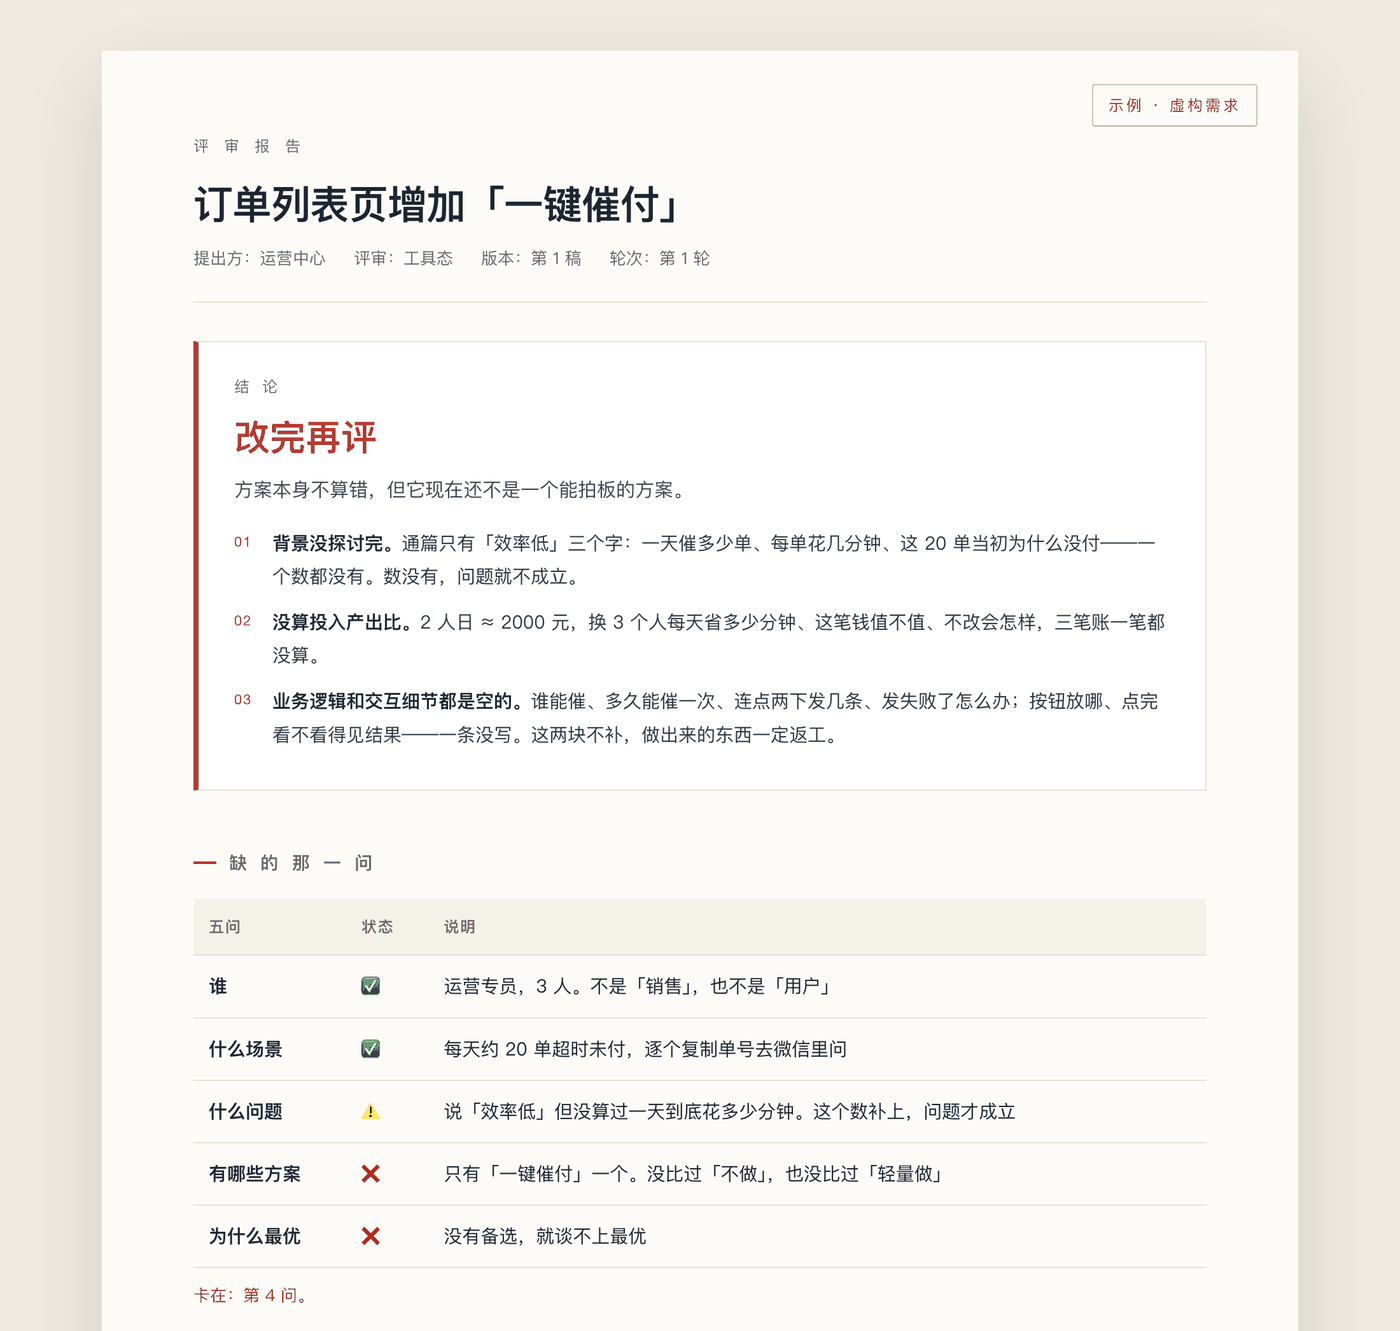
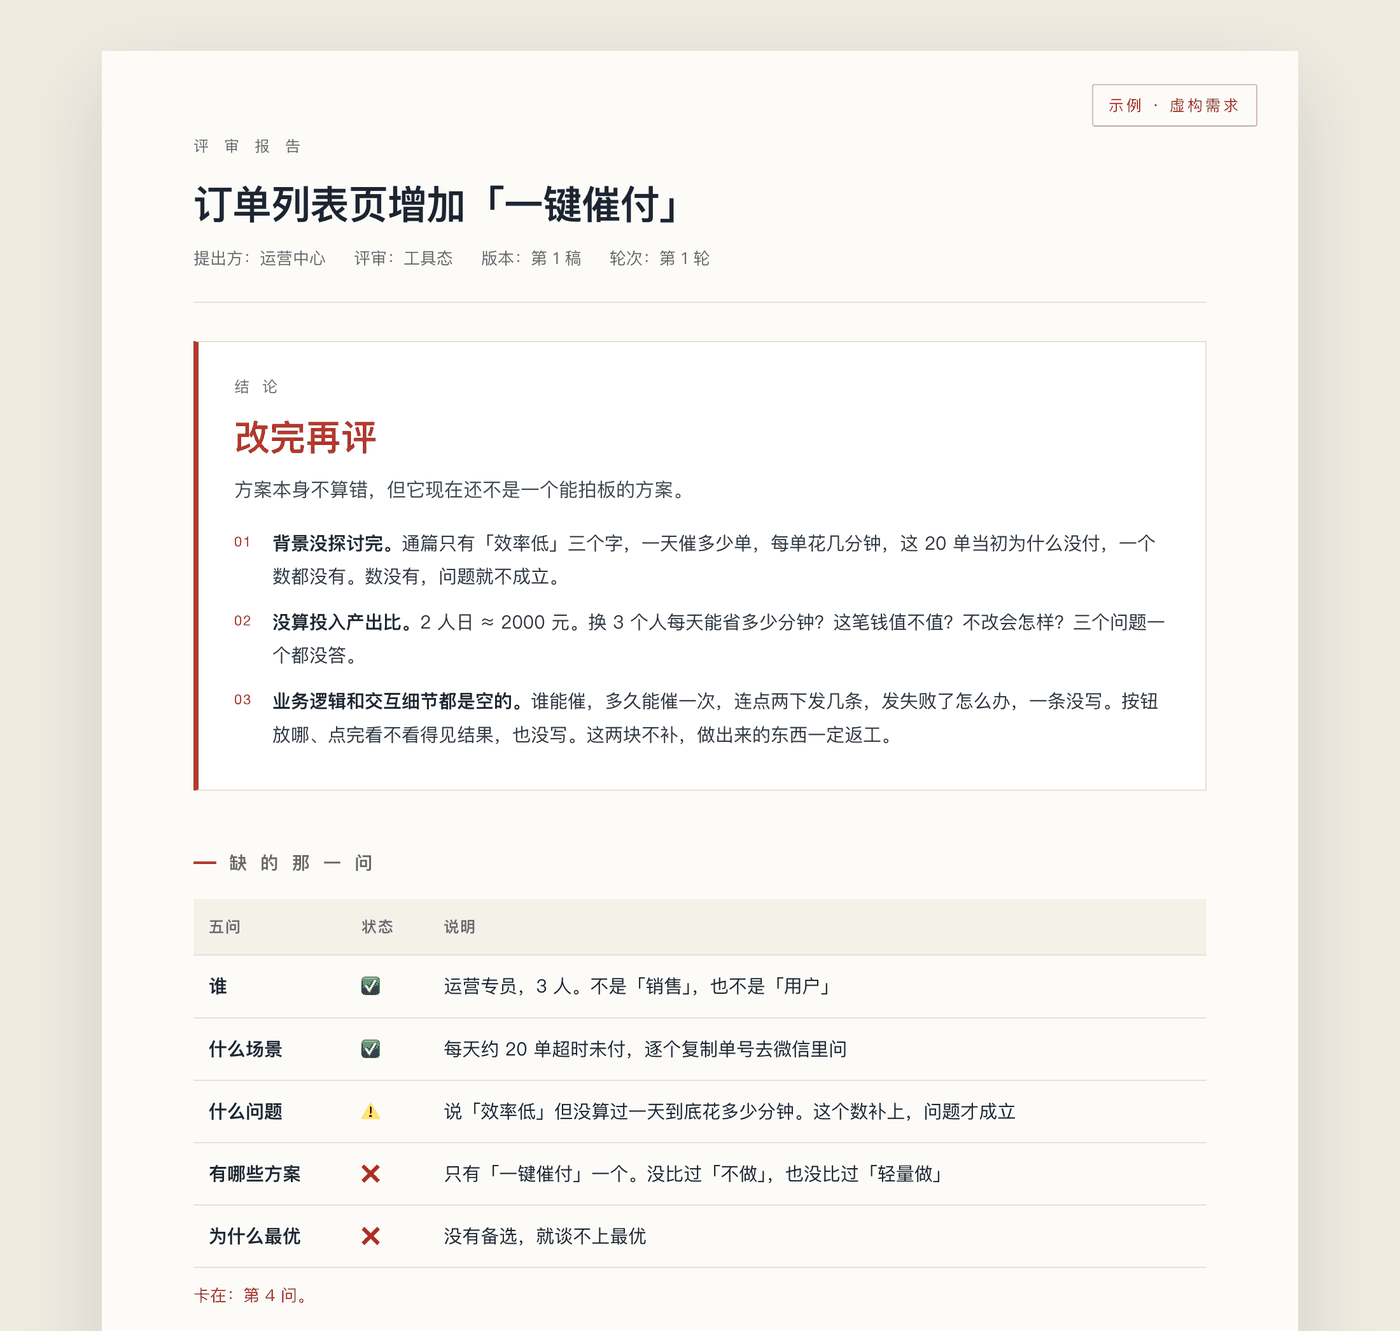
style: README / 落地页 / 示例报告过去 AI 味
用 lieflat-less-ai-tone 检测后按最小改动改写，事实与结构不动：
- 破折号：README 5.67→0、示例报告 4.04→0（每千字）
- 分号：示例报告 2.31→0，三处并列层级拆成两句
- 顿号密排：结论三条与依据行改成逗号分句，表格里的枚举保持原样
- 三连排比打散：'换成客服、换成销售、换成其他区域' → '换成客服或销售，换个区域'
- 首屏那句'它不给你一份更好的 PRD，它把…'改成'它不写 PRD，只指出你漏掉的那一问'
- 落地页版本号 v1.9 → v2.0

未动：空转句引列表（X 级，人类本就多用）、小标题编号、表格枚举、条款措辞。

diff --git a/docs/demo-review.html b/docs/demo-review.html
@@ -96,9 +96,9 @@
     <div class="v">改完再评</div>
     <p class="sub">方案本身不算错，但它现在还不是一个能拍板的方案。</p>
     <ol>
-      <li><b>背景没探讨完。</b>通篇只有「效率低」三个字：一天催多少单、每单花几分钟、这 20 单当初为什么没付——一个数都没有。数没有，问题就不成立。</li>
-      <li><b>没算投入产出比。</b>2 人日 ≈ 2000 元，换 3 个人每天省多少分钟、这笔钱值不值、不改会怎样，三笔账一笔都没算。</li>
-      <li><b>业务逻辑和交互细节都是空的。</b>谁能催、多久能催一次、连点两下发几条、发失败了怎么办；按钮放哪、点完看不看得见结果——一条没写。这两块不补，做出来的东西一定返工。</li>
+      <li><b>背景没探讨完。</b>通篇只有「效率低」三个字，一天催多少单，每单花几分钟，这 20 单当初为什么没付，一个数都没有。数没有，问题就不成立。</li>
+      <li><b>没算投入产出比。</b>2 人日 ≈ 2000 元。换 3 个人每天能省多少分钟？这笔钱值不值？不改会怎样？三个问题一个都没答。</li>
+      <li><b>业务逻辑和交互细节都是空的。</b>谁能催，多久能催一次，连点两下发几条，发失败了怎么办，一条没写。按钮放哪、点完看不看得见结果，也没写。这两块不补，做出来的东西一定返工。</li>
     </ol>
   </div>
 
@@ -119,11 +119,11 @@
   <div class="basis">
     <div class="row">
       <div class="k">受益范围</div>
-      <div class="v"><b>调研只覆盖 3 名运营专员，不具备全量代表性。</b>这个结论对「每天手动催 20 单」的那类人成立，换成客服、换成销售、换成其他区域，就未必成立。<em>下结论前要么扩样本，要么把适用范围写死在方案里。</em></div>
+      <div class="v"><b>调研只覆盖 3 名运营专员，不具备全量代表性。</b>这个结论对「每天手动催 20 单」的那类人成立，换成客服或销售，换个区域，就未必成立。<em>下结论前要么扩样本，要么把适用范围写死在方案里。</em></div>
     </div>
     <div class="row">
       <div class="k">成本</div>
-      <div class="v"><b>真正要回答的是这句话：如果你是老板，愿意花 2000 元，解决这 3 个人的效率问题吗？</b>2 人日 ≈ 2000 元只是个刻度，值不值要看答案。<em>说「愿意」就做；说「不愿意」，先去找替代方案——脚本、模板、招人，都比做功能便宜。</em></div>
+      <div class="v"><b>真正要回答的是这句话：如果你是老板，愿意花 2000 元，解决这 3 个人的效率问题吗？</b>2 人日 ≈ 2000 元只是个刻度，值不值要看答案。<em>说愿意就做。说不愿意，就先找替代方案：写个脚本、做张模板，或者干脆招个人，都比做功能便宜。</em></div>
     </div>
     <div class="row">
       <div class="k">顺手额度</div>
@@ -145,9 +145,9 @@
     <tbody>
       <tr><td><b>谁有权限催</b></td><td class="now">没写</td><td>是「只能催自己名下的单」，还是「全部订单都能催」？跨区域、跨销售的订单呢？权限不定，等于把风险留到上线后</td></tr>
       <tr><td><b>什么算「超时未付」</b></td><td class="now">没定义</td><td>下单后 24 小时算超时，还是以支付通道的超时为准？部分支付、待审核、已申请退款的单，算不算在这个池子里</td></tr>
-      <tr><td><b>频次与冷却</b></td><td class="now">没写</td><td>同一张单一天最多催几次、两次之间至少隔多久？这个上限谁定——运营主管还是产品</td></tr>
+      <tr><td><b>频次与冷却</b></td><td class="now">没写</td><td>同一张单一天最多催几次、两次之间至少隔多久？这个上限谁定，运营主管还是产品</td></tr>
       <tr><td><b>幂等与并发</b></td><td class="now">没写</td><td>两个人同时点、或一个人连点三次，客户收到一条还是三条？这类问题上线第一天就会发生</td></tr>
-      <tr><td><b>走什么渠道、说什么话</b></td><td class="now">没写</td><td>短信 / 企微 / 站内信，还是都发？模板谁维护、能不能改？客户看到的第一句话是什么——这句话决定他付不付</td></tr>
+      <tr><td><b>走什么渠道、说什么话</b></td><td class="now">没写</td><td>短信 / 企微 / 站内信，还是都发？模板谁维护、能不能改？客户看到的第一句话是什么。这句话决定他付不付</td></tr>
       <tr><td><b>失败与回收</b></td><td class="now">没写</td><td>号码无效、被拉黑、通道限流，页面上怎么提示？客户付完之后，这条催付记录怎么关</td></tr>
     </tbody>
   </table>
@@ -156,11 +156,11 @@
   <table>
     <thead><tr><th style="width:24%">位置</th><th style="width:13%">现在的说法</th><th>必须补的</th></tr></thead>
     <tbody>
-      <tr><td><b>入口放哪</b></td><td class="now">只说「列表页」</td><td>行内操作列，还是勾选后批量操作？单条催和批量催是不是同一套逻辑——不是的话，要做两遍</td></tr>
-      <tr><td><b>按钮形态</b></td><td class="now">没写</td><td>催付是打扰性动作，不该用主按钮；已支付、已取消的订单上，这个按钮该灰掉还是不出现</td></tr>
+      <tr><td><b>入口放哪</b></td><td class="now">只说「列表页」</td><td>行内操作列，还是勾选后批量操作？单条催和批量催是不是同一套逻辑，不是的话要做两遍</td></tr>
+      <tr><td><b>按钮形态</b></td><td class="now">没写</td><td>催付是打扰性动作，不该用主按钮。已支付、已取消的订单上，这个按钮该灰掉还是不出现</td></tr>
       <tr><td><b>二次确认</b></td><td class="now">没写</td><td>点一下直接发，还是弹窗确认？批量时说清「将为 12 张单发送催付」，别让人点完才后悔</td></tr>
       <tr><td><b>发送中</b></td><td class="now">没写</td><td>按钮转圈、整行置灰，还是允许再点？发送要几秒，这几秒里用户会做什么，得先想好</td></tr>
-      <tr><td><b>结果反馈</b></td><td class="now">没写</td><td>部分成功怎么报——「12 单成功，2 单失败」，失败的是哪两张、能不能一键重发。只弹个 toast 说「操作成功」，等于没说</td></tr>
+      <tr><td><b>结果反馈</b></td><td class="now">没写</td><td>部分成功怎么报？「12 单成功，2 单失败」，失败的是哪两张，能不能重发。只弹个 toast 说「操作成功」，等于没说</td></tr>
       <tr><td><b>催没催过看得见吗</b></td><td class="now">没写</td><td>列表要不要加「最近催付时间 / 次数」列？不加，运营第二天根本想不起来哪张单催过、催了几次</td></tr>
     </tbody>
   </table>
@@ -180,7 +180,7 @@
     <thead><tr><th>对象</th><th>要说什么</th><th>目的</th><th>渠道</th></tr></thead>
     <tbody>
       <tr><td>提需求的运营负责人</td><td>缺的不是结论，是备选方案和三个数：单量、每单耗时、当前付款率</td><td>让他自己把第 4 问补上</td><td>需求池评论</td></tr>
-      <tr><td>研发负责人</td><td>先不排期；业务逻辑和交互至少还要再过一稿</td><td>避免占用下个迭代的坑位</td><td>周会</td></tr>
+      <tr><td>研发负责人</td><td>先不排期。业务逻辑和交互至少还要再过一稿</td><td>避免占用下个迭代的坑位</td><td>周会</td></tr>
       <tr><td>客服负责人</td><td>本期不改动，口径先别外传</td><td>防止一线提前按「会催付」答复客户</td><td>群公告</td></tr>
       <tr><td>决策人</td><td>若运营坚持要做：2000 元 / 3 人受益，这笔钱值不值由他判断</td><td>让该判断的人判断</td><td>单独沟通</td></tr>
     </tbody>

diff --git a/docs/index.html b/docs/index.html
@@ -59,9 +59,9 @@
     <div class="eyebrow">开 源 A G E N T S K I L L</div>
     <h1>产品Ronchi</h1>
     <div style="font-size:15px;letter-spacing:2px;color:#6E6A60;margin:-6px 0 16px">PM-Ronchi</div>
-    <p class="lede">它不给你一份更好的 PRD，<b>它把「你没想到的那一问」指出来</b>。</p>
+    <p class="lede">它不写 PRD，<b>只指出你漏掉的那一问</b>。</p>
     <div class="meta">
-      <span>v1.9</span><span>作者 Ronchi</span><span>CC BY-NC 4.0</span><span>零依赖 · Python ≥ 3.8</span>
+      <span>v2.0</span><span>作者 Ronchi</span><span>CC BY-NC 4.0</span><span>零依赖 · Python ≥ 3.8</span>
     </div>
     <div class="cta">
       <a class="btn solid" href="./demo-review.html">看一份示例评审报告</a>
@@ -71,7 +71,7 @@
   </header>
 
   <div class="figure"><img src="./structure.svg" alt="五问主链与工具态/教练态双入口结构图"></div>
-  <div class="cap">一张结构，四种用法：评需求 · 找对标 · 评人 · 写文档。缺哪一问就指哪一问，不替对方补。</div>
+  <div class="cap">一张结构，四种用法。评需求，找对标，评人，写文档。缺哪一问就指哪一问，不替对方补。</div>
 
   <section>
     <h2>它 和 「又 一 个 A I 顾 问」 的 区 别</h2>
@@ -103,7 +103,7 @@
     <p style="font-size:14.5px;color:var(--muted);margin-top:14px">
       它会自己放进 <code>~/.workbuddy/skills/pm-ronchi</code>。装完开个新对话，直接说：
       「用产品Ronchi帮我看这个需求」「评审一下这份 PRD」。
-      要评人就明说「这次评人」——它默认评物。
+      要评人就明说「这次评人」，它默认评物。
     </p>
   </section>
 

diff --git a/README.md b/README.md
@@ -1,6 +1,6 @@
 # 产品Ronchi · PM-Ronchi
 
-**它不给你一份更好的 PRD，它把「你没想到的那一问」指出来。**
+**它不写 PRD，只指出你漏掉的那一问。**
 
 > 中文名 **产品Ronchi**｜英文名 **PM-Ronchi**｜技能标识 `pm-ronchi`｜开源 agent skill
 
@@ -18,19 +18,19 @@
 
 ## 它解决什么问题
 
-所有人都在用 AI 写 PRD。写出来都挺顺，但顺的原因是：**它只回答了「怎么做」，没人回答「为什么是这个做法」。**
+现在人人都在用 AI 写 PRD，写出来也挺顺。它答的是「怎么做」，「为什么是这个做法」没人问。
 
-真实的需求评审不是这样。评审要判的不是文档写得好不好，是**这个方案成不成立**：
+真实的需求评审要判的是这个方案成不成立，文档写得好不好在其次。要判成不成立，这几问得先答上：
 
-- 谁在用——说得出来是哪 3 个人，还是「用户」两个字
-- 什么场景下——一天几次，每次多久
-- 到底什么问题——是效率低，还是不敢拒绝
-- **评过哪些方案**——只有一条，还是比过「不做」和「轻量做」
-- **为什么这条最优**——有依据，还是因为它是第一个想到的
+- 谁在用：说得出来是哪 3 个人，还是「用户」两个字
+- 什么场景下：一天几次，每次多久
+- 到底什么问题：是效率低，还是不敢拒绝
+- **评过哪些方案**：只有一条，还是比过「不做」和「轻量做」
+- **为什么这条最优**：有依据，还是因为它是第一个想到的
 
-前四问答完才有资格谈第五问。而大部分 PRD 的病，都出在「只有一个方案，然后论证它最好」。
+前四问答完，才有资格谈第五问。大部分 PRD 的病，都出在只有一个方案，然后论证它最好。
 
-这套东西就是把这个判断顺序**固定下来**，然后一稿一稿地用。
+这套东西把这个判断顺序固定下来，然后一稿一稿地用。
 
 ## 它和「又一个 AI 顾问」的区别
 
@@ -47,28 +47,28 @@
 
 ![评审报告示例](./docs/shots/hero.png)
 
-*示例 · 虚构需求「订单列表页增加一键催付」：结论给一句话加三条判断，五问缺位表指到断在哪，后面还有业务逻辑与交互细节各六个缺口。[打开完整报告 →](https://ronchizhang.github.io/pm-ronchi/demo-review.html)*
+*示例用的是虚构需求「订单列表页增加一键催付」。结论给一句话加三条判断，五问表指到断在第几问，后面还有业务逻辑与交互细节各六个缺口。[打开完整报告 →](https://ronchizhang.github.io/pm-ronchi/demo-review.html)*
 
 工具态固定五段：**结论 · 缺的那一问 · 依据 · 该问的问题 · 分发清单**。
 教练态固定四段：**姿态判断 · 分诊 · 差距清单 · 下一步**。
-唯一的例外是人已经崩了——那时四段全让位，先给一个 30 分钟内能做完的动作。
+人已经崩了的时候是例外，四段全让位，先给一个 30 分钟内能做完的动作。
 
 ## 装：把链接丢给 AI
 
-不用敲命令。把这个链接发给你的 AI 助手（WorkBuddy / Claude Code / Codex 都行），说一句「装这个技能」：
+不用敲命令。把链接发给你的 AI 助手（WorkBuddy、Claude Code、Codex 都行），说一句「装这个技能」：
 
 ```
 https://github.com/ronchizhang/pm-ronchi
 ```
 
-它会自己把技能放进 `~/.workbuddy/skills/`（Claude Code 是 `~/.claude/skills/`），目录名用 `pm-ronchi`。
-装完开一个新对话，直接说需求：
+它会自己放进 `~/.workbuddy/skills/`（Claude Code 是 `~/.claude/skills/`），目录名用 `pm-ronchi`。
+装完开个新对话，直接说需求：
 
 > 用「产品Ronchi」帮我看看这个需求值不值得做
 > 评审一下这份 PRD
 > 这份 docx 你看下交互
 
-评人要明说「这次评人」——它默认评物。
+评人要明说「这次评人」，它默认评物。
 
 <details>
 <summary>AI 装不上时，手动三条命令</summary>
@@ -87,7 +87,7 @@ git clone https://github.com/ronchizhang/pm-ronchi.git ~/.workbuddy/skills/pm-ro
 ```bash
 python3 ~/.workbuddy/skills/pm-ronchi/scripts/extract_prd.py 你的PRD.docx -o ./prd-extract
 ```
-纯标准库，零第三方依赖，Mac / Windows 都能跑。
+纯标准库，零第三方依赖，Mac 和 Windows 都能跑。
 
 ## 目录
 
@@ -119,12 +119,12 @@ pm-ronchi/
 - **没有备选的「最优」不成立。** 至少问过「不做」和「轻量做」。
 - **不编造没给过的判据。** 每条判断标出处：`【原话】` / `【引申】` / `【通用】`，三类不许混。
 - **不替你写 PRD。** 给了改法，你就是在照着别人的思维改。
-- **不用「皮实」压人。** 批评站不住、或反复推翻不给理由，那是判断机制的问题，不是谁逆商不够。
+- **不用「皮实」压人。** 批评站不住、或者反复推翻不给理由，那是判断机制的问题，不是谁逆商不够。
 - **没有图、没有能打开的页面，就不评交互。** 只评「有没有写」，并明说这个缺口。
 
 ## 已知边界
 
-诚实写出来，比装作覆盖了好：
+这几块目前没有判据，写出来比装作覆盖了好：
 
 - 未达标复盘的规范化流程
 - 平台型两侧冲突的定量判定（只给方向：偏袒稀缺侧、动态平衡）

diff --git a/CHANGELOG.md b/CHANGELOG.md
@@ -15,6 +15,7 @@
 - 新增**业务逻辑**六个缺口：权限、超时口径、频次与冷却、幂等与并发、渠道与话术、失败与回收
 - 新增**交互细节**六个缺口：入口、按钮形态、二次确认、发送中、结果反馈、催没催过看得见
 - 安装方式改成「把链接丢给 AI」，`git clone` 降为备用路径
+- README、落地页、示例报告跑了一遍去 AI 味：破折号 5.67→0 / 4.04→0（每千字），示例报告的分号 2.31→0；表格里的枚举顿号按原样保留，它们是清单不是排比
 
 技能本体的判据一条没改。
 
